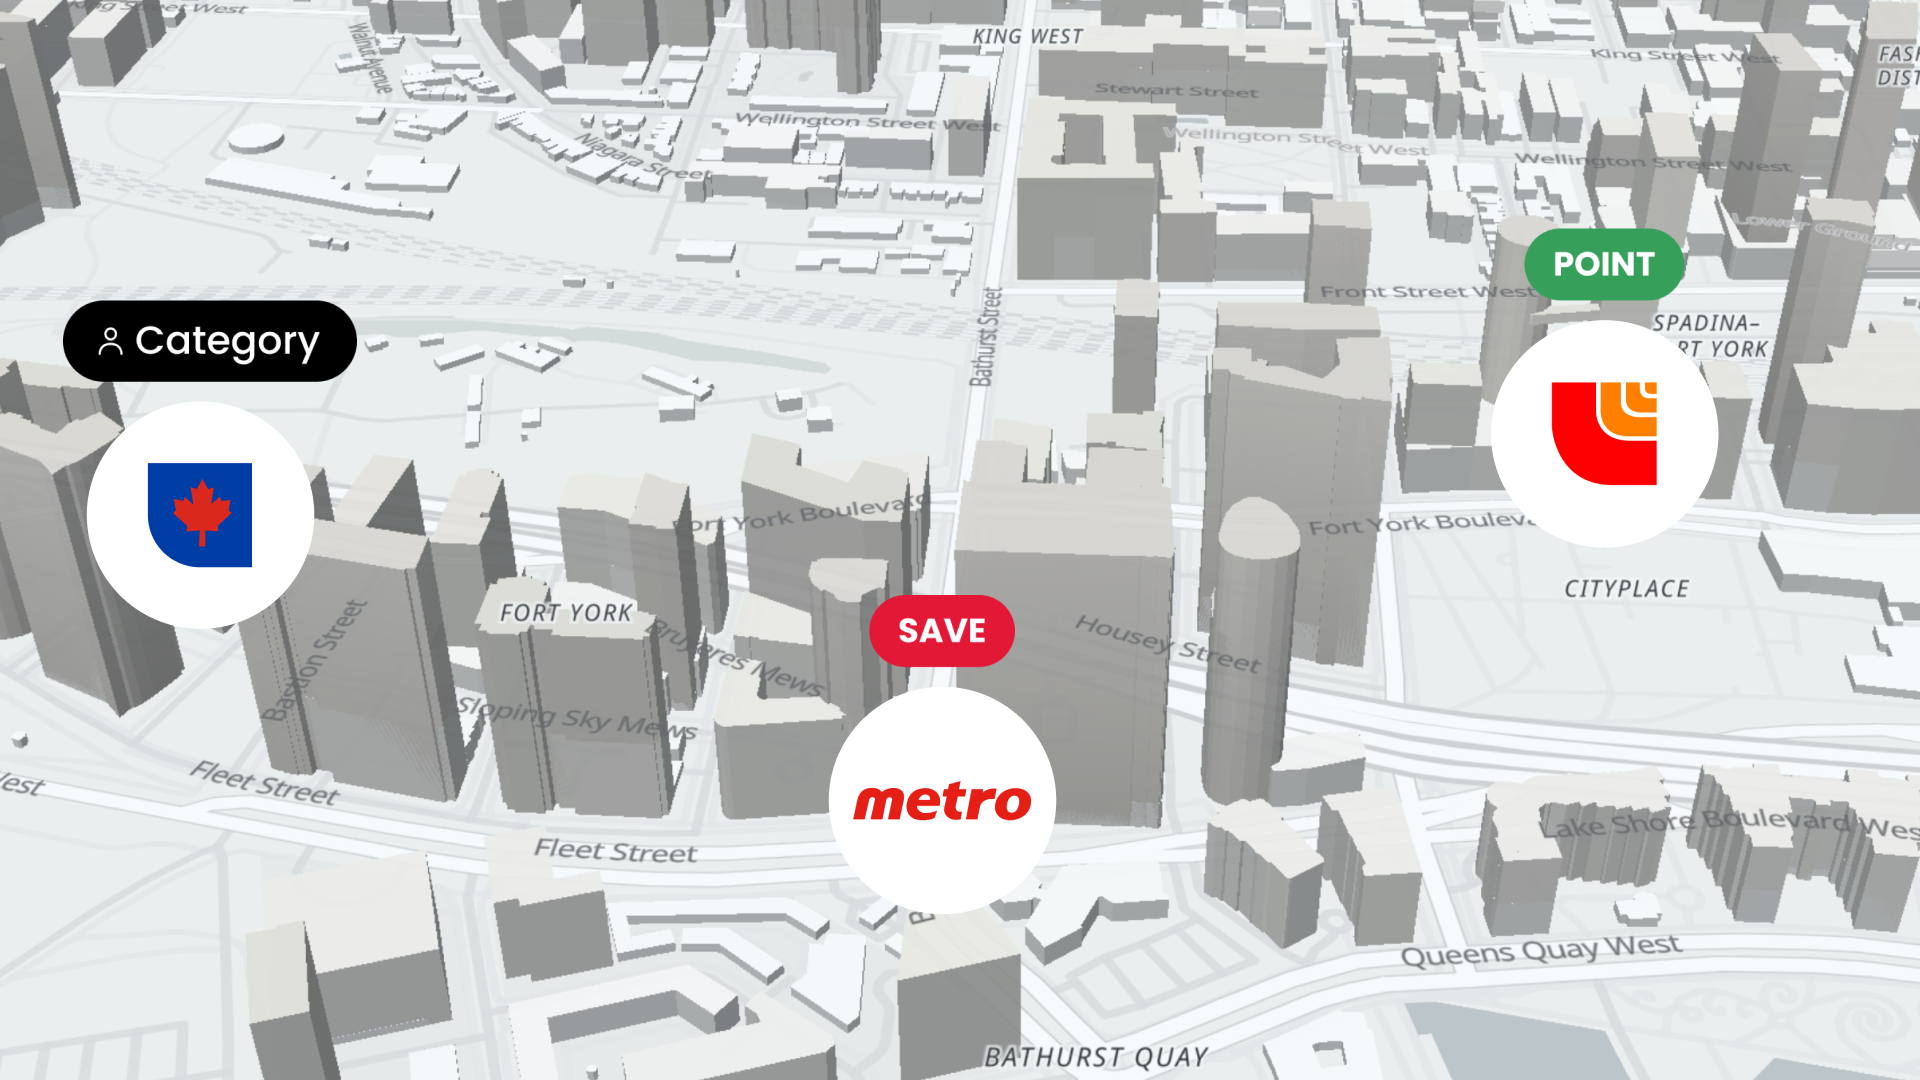
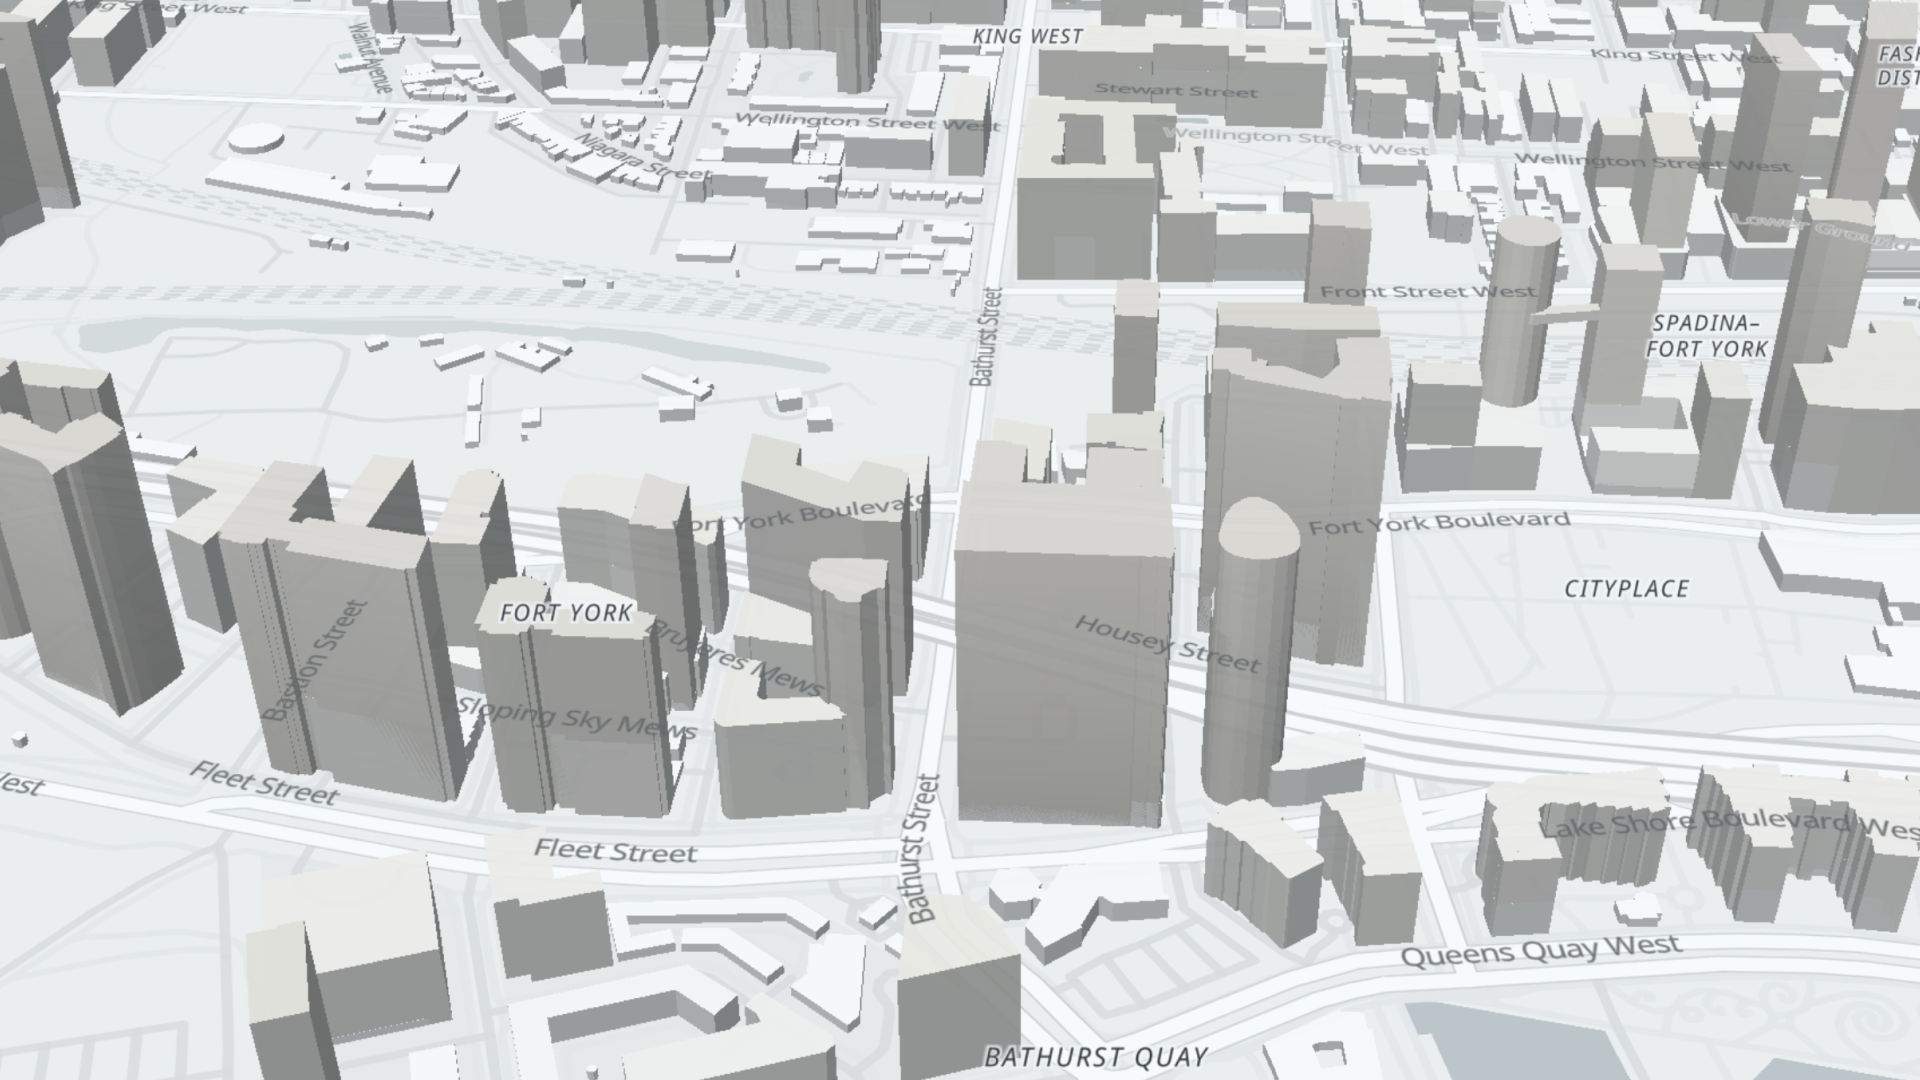
as

Changed region(s): [[0.0312, 0.275, 0.1875, 0.5806], [0.4062, 0.55, 0.5625, 0.8556], [0.7812, 0.2139, 0.9062, 0.5194]]

diff --git a/index.html b/index.html
@@ -453,6 +453,21 @@
   .tl-node-meta{display:none;}
 }
 
+/* ── Map overlays ─────────────────────────────────────── */
+.map-overlay-img{
+  position:absolute;
+  height:42%;
+  width:auto;
+  border-radius:20px;
+  pointer-events:none;
+  animation:map-breathe 3s ease-in-out infinite;
+  will-change:transform;
+}
+@keyframes map-breathe{
+  0%,100%{transform:scale(1);}
+  50%{transform:scale(1.06);}
+}
+
 /* ── Product Demo ─────────────────────────────────────── */
 .demo-section{padding-top:48px;padding-bottom:48px;border-top:1px solid var(--line);}
 .demo-grid{display:grid;grid-template-columns:1fr 268px;gap:24px;align-items:start;}
@@ -739,6 +754,9 @@
   </div>
   <div class="ph-video" style="margin-top:40px;background:none;border-radius:0;">
     <img src="./mapimg.png" alt="Map" style="width:100%;height:100%;object-fit:cover;border-radius:20px;">
+    <img src="./tt1.png" alt="" class="map-overlay-img" id="mo1">
+    <img src="./tt2.png" alt="" class="map-overlay-img" id="mo2">
+    <img src="./tt3.png" alt="" class="map-overlay-img" id="mo3">
   </div>
   <p class="ph-body" style="margin-top:20px;text-align:right;margin-left:auto;max-width:560px;">Near Me is a real-time, geolocation-based deals platform that activates proximity as a digital channel — built to accelerate clearance cycles, optimize inventory turnover, and establish a unified commercial data layer between merchants and shoppers at the moment of intent.</p>
 </section>
@@ -1832,6 +1850,31 @@
 </section>
 
 <script>
+/* Map overlay: zone-based non-overlapping placement + random breathing */
+(function(){
+  var imgs = document.querySelectorAll('.map-overlay-img');
+  if(!imgs.length) return;
+  /* triangle: top-center, bottom-left, bottom-right */
+  var zones = [
+    { lMin:38, lMax:44, tMin:5,  tMax:12 },
+    { lMin:8,  lMax:16, tMin:46, tMax:54 },
+    { lMin:66, lMax:74, tMin:46, tMax:54 }
+  ];
+  /* shuffle so tt images rotate across positions each load */
+  zones.sort(function(){ return Math.random() - 0.5; });
+  imgs.forEach(function(img, i){
+    var z = zones[i];
+    var l = (z.lMin + Math.random() * (z.lMax - z.lMin)).toFixed(1);
+    var t = (z.tMin + Math.random() * (z.tMax - z.tMin)).toFixed(1);
+    var dur = (2.4 + Math.random() * 2.2).toFixed(2);
+    var delay = (Math.random() * 1.8).toFixed(2);
+    img.style.left = l + '%';
+    img.style.top  = t + '%';
+    img.style.animationDuration = dur + 's';
+    img.style.animationDelay   = '-' + delay + 's';
+  });
+})();
+
 /* Demo iframe height sync */
 (function(){
   function syncDemo(){
